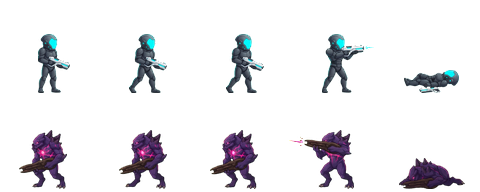
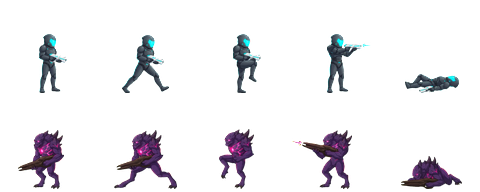
feat(ui): нові кадри кроку бійців — аркуші Gemini з фазами ходи, перевірка walkIoU у конвертері (Т.134)
Claude-Session: https://claude.ai/code/session_01U6iHxee7R2SY71oqbxztUc

diff --git a/src/render.frames.test.ts b/src/render.frames.test.ts
@@ -349,25 +349,25 @@ describe('фідбек власника 2026-10-22: якір дула — тра
   };
 
   it('демон (натив, вліво): старт — дуло фазового різака, лівий край кадру', () => {
-    expect(tracerStart('alien', 5, 3, false)).toEqual([264 - 31, 264 - 16]); // (4,44) → +3, +31
+    expect(tracerStart('alien', 5, 3, false)).toEqual([264 - 29, 264 - 14]); // (7,46) → +5, +33
   });
 
   it('демон (дзеркало, вправо): дуло віддзеркалене до правого краю (x → 96 − x)', () => {
-    expect(tracerStart('alien', 5, 7, true)).toEqual([264 + 31, 264 - 16]); // 92 → +65
+    expect(tracerStart('alien', 5, 7, true)).toEqual([264 + 29, 264 - 14]); // 89 → +63
   });
 
   it('солдат: дуло — правий край кадру fire, на рівні зброї', () => {
-    expect(tracerStart('player', 5, 7, false)).toEqual([264 + 24, 264 - 14]); // (82,47) → +58, +33
+    expect(tracerStart('player', 5, 7, false)).toEqual([264 + 21, 264 - 15]); // (78,45) → +55, +32
   });
 
   it('солдат (дзеркало, вліво): дзеркальне дуло ліворуч', () => {
-    expect(tracerStart('player', 5, 3, true)).toEqual([264 - 24, 264 - 14]); // 14 → +10
+    expect(tracerStart('player', 5, 3, true)).toEqual([264 - 21, 264 - 15]); // 18 → +13
   });
 
   it('muzzlePoint: віддача зсуває дуло назад від погляду', () => {
-    expect(muzzlePoint('player', false, 264, 264, 3)).toEqual({ x: 264 + 24 - 3, y: 264 - 14 });
-    expect(muzzlePoint('alien', false, 264, 264, 3)).toEqual({ x: 264 - 31 + 3, y: 264 - 16 });
-    expect(muzzlePoint('player', true, 264, 264, 3)).toEqual({ x: 264 - 24 + 3, y: 264 - 14 });
+    expect(muzzlePoint('player', false, 264, 264, 3)).toEqual({ x: 264 + 21 - 3, y: 264 - 15 });
+    expect(muzzlePoint('alien', false, 264, 264, 3)).toEqual({ x: 264 - 29 + 3, y: 264 - 14 });
+    expect(muzzlePoint('player', true, 264, 264, 3)).toEqual({ x: 264 - 21 + 3, y: 264 - 15 });
   });
 });
 
@@ -381,7 +381,7 @@ describe('Т.132: спалах дула, віддача, іскри', () => {
     const arcs = early.calls.filter((c) => c.m === 'arc');
     expect(arcs).toHaveLength(2); // ореол і ядро
     // на початку — віддача 3 px: центр спалаху = дуло з віддачею
-    expect((arcs[0]!.args as number[]).slice(0, 2)).toEqual([264 + 24 - 3, 264 - 14]);
+    expect((arcs[0]!.args as number[]).slice(0, 2)).toEqual([264 + 21 - 3, 264 - 15]);
     const late = animCtx();
     drawAnimFrame(late.ctx, a, TRACER_MS * 0.8, 48, 8, 960, 960, { side: 'player', flip: false });
     expect(late.calls.some((c) => c.m === 'arc')).toBe(false);

diff --git a/src/render.ts b/src/render.ts
@@ -183,8 +183,8 @@ export const ATLAS_WALK2_COL = 2;
 // дзеркалення — x → 96 − x. Підказку
 // передає ЛИШЕ бойовище (battle.ts); трасер перехоплення на геосцені — від центру.
 export const MUZZLE_ANCHOR: Readonly<Record<'player' | 'alien', { x: number; y: number }>> = {
-  player: { x: 82, y: 47 }, // дуловий спалах АР-14 «Гарт» — правий край кадру fire (Т.133: новий атлас)
-  alien: { x: 4, y: 44 }, // дуловий спалах фазового різака — лівий край кадру fire (Т.133: новий атлас)
+  player: { x: 78, y: 45 }, // дуловий спалах АР-14 «Гарт» — правий край кадру fire (Т.134: нові аркуші)
+  alien: { x: 7, y: 46 }, // дуловий спалах фазового різака — лівий край кадру fire (Т.134: нові аркуші)
 };
 
 // Точка дула на полі для центру клітинки стрільця (cx, cy); recoil — віддача, px (назад).

diff --git a/scripts/assets/convert_units_t133.py b/scripts/assets/convert_units_t133.py
@@ -6,6 +6,7 @@
 # Відмінності від convert_units.py (П14.3): фігури не піксель-арт, тому альфа плавна
 # (матування за «зеленістю» g - max(r, b)), зменшення — LANCZOS по премножених каналах,
 # зелений відблиск на краях прибирається (g <= max(r, b)) до і після зменшення.
+# Т.134: звіт несе walkIoU (idle-walk1, walk1-walk2, idle-walk2); збіг > WALK_IOU_MAX — помилка.
 # Геометрія атласа не змінюється (ADR-0121): фігура стоячих кадрів — рядки 34..92,
 # ноги — рядок 92 (ATLAS_FEET_ROW = 93 — перший рядок під ногами), якір x спільний для ряду.
 from pathlib import Path
@@ -26,6 +27,7 @@ TOP, BOTTOM = 34, 93  # фігура стоячого кадру: рядки TOP
 BODY_H = BOTTOM - TOP
 MAX_W = 94  # найширший кадр — з полем 1 px з боків
 K0, K1 = 20.0, 90.0  # «зеленість»: <= K0 — фігура, >= K1 — тло
+WALK_IOU_MAX = 0.75  # Т.134: кадри кроку мають різнитись (на атласі Т.133 walk1/walk2 — 0,89)
 
 
 def matte(path):
@@ -78,6 +80,13 @@ def feet_x(fig):
     return float((band.sum(axis=0) * xs).sum() / band.sum())
 
 
+def walk_iou(frames):
+    # збіг масок (перетин / об'єднання) пар idle-walk1, walk1-walk2, idle-walk2; поріг — WALK_IOU_MAX
+    m = [fr[..., 3] > 128 for fr in frames[:3]]
+    pairs = ((0, 1), (1, 2), (0, 2))
+    return [round(float((m[i] & m[j]).sum() / (m[i] | m[j]).sum()), 3) for i, j in pairs]
+
+
 def build_row(path, facing, mirror):
     img = matte(path)
     figs = split_figures(img)
@@ -118,7 +127,17 @@ def build_row(path, facing, mirror):
     cols = slice(edge - 3, edge + 1) if facing > 0 else slice(edge, edge + 4)
     ys = np.where(fire[:, cols].any(axis=1))[0]
     muzzle = {'x': int(edge - 2 * facing), 'y': int(round(ys.mean()))}
-    return frames, {'scale': round(scale, 4), 'deathScale': round(dscale, 4), 'anchorX': anchor, 'bbox': info, 'muzzle': muzzle}
+    iou = walk_iou(frames)
+    if max(iou) > WALK_IOU_MAX:
+        raise SystemExit(f'{path.name}: кадри кроку надто схожі (збіг масок {iou} > {WALK_IOU_MAX}) — перегенерувати аркуш')
+    return frames, {
+        'scale': round(scale, 4),
+        'deathScale': round(dscale, 4),
+        'anchorX': anchor,
+        'bbox': info,
+        'muzzle': muzzle,
+        'walkIoU': iou,
+    }
 
 
 def main():

diff --git a/docs/design/style-references.md b/docs/design/style-references.md
@@ -133,10 +133,12 @@ Tileset for a top-down tactical world map, flat pixel art: a dark ocean tile (#0
 
 **Правила промпту (спільні):** одна фігура чи один ряд — без сітки з кількох рядів; `flat solid pure chroma green #00FF00`, окремо «no floor, no ground line, no shadows, no text»; «No green on the character»; явний напрямок погляду і «identical scale, feet on the same baseline»; перелік кадрів зліва направо; «holds the SAME weapon in ALL frames» (у першій пробі Gemini загубив зброю в кадрі кроку); розмір на полі («optimized for small 60px in-game display») — щоб форми були великі. Напрямок погляду генератор може проігнорувати (демона намалював праворуч) — дзеркалить конвертер.
 
+**Кадри кроку (Т.134).** Промпт Т.133 («left leg forward» / «right leg forward») дав два майже однакові кроки (збіг масок 0,89; у демона другий крок — як «стій», 0,86): у профіль генератор малює ту саму ногу попереду. Робить різними — дві різні фази ходи: «contact» (широкий крок, ноги перевернутою V) і «passing» (опора на одну ногу, коліно другої вгору), плюс «feet together» у «стій» і окреме речення про різні силуети ніг. Промпти нижче — уже з цими фазами; з ними обидва аркуші вийшли з першої спроби (збіг 0,43–0,56). Конвертер перевіряє це сам: звіт `walkIoU`, збіг > 0,75 — помилка. Пастка Т.134: після «Створити зображення» над полем вводу з'являються плитки стилів, і клік по місцю колишнього поля вводу чіпляє стиль (так прикріпився «М'який портрет»; на цей раз результат не зіпсував) — після вибору інструмента спершу знімок, потім клік у поле внизу.
+
 **Промпт аркуша оперативника (Gemini):**
-2D game character sprite sheet, aspect ratio 16:9: exactly 5 separate full-body poses of the exact same character in a single horizontal row, evenly spaced, wide empty gaps between figures. Character: a futuristic sci-fi operative in an armored suit, slightly stocky heroic proportions (3.5 heads tall), bold readable silhouette, large simple shapes optimized for small 60px in-game display. Matte dark gunmetal armor, a rounded hood-like helmet with a glowing neon cyan (#00E5FF) visor, small cyan indicator lights, and a sleek white sci-fi energy blaster with cyan accents. Art style: modern high-resolution 2D digital painting with crisp cel-shaded shapes, clean smooth edges, soft even lighting from the top-left, subtle cyan rim light; strictly NOT pixel art. Side view with a slight three-quarter turn, facing RIGHT in all 5 frames, identical scale, feet on the same baseline. Frames left to right: 1) idle stance, blaster held low across the body; 2) walking, left leg forward, blaster held low across the body; 3) walking, right leg forward, blaster held low across the body; 4) action pose, blaster raised to the shoulder, horizontal, pointing right, short cyan energy flash at the tip; 5) knocked-out pose: lying flat on the back on the ground, head to the right, blaster lying beside him. The character holds the SAME white blaster in ALL frames, including both walking frames. Background: flat solid pure chroma green #00FF00, perfectly uniform edge to edge. No floor, no ground line, no shadows under the feet or under the lying body, no gradients, no borders, no dividing lines, no text, no numbers. No green on the character.
+2D game character sprite sheet, aspect ratio 16:9: exactly 5 separate full-body poses of the exact same character in a single horizontal row, evenly spaced, wide empty gaps between figures. Character: a futuristic sci-fi operative in an armored suit, slightly stocky heroic proportions (3.5 heads tall), bold readable silhouette, large simple shapes optimized for small 60px in-game display. Matte dark gunmetal armor, a rounded hood-like helmet with a glowing neon cyan (#00E5FF) visor, small cyan indicator lights, and a sleek white sci-fi energy blaster with cyan accents. Art style: modern high-resolution 2D digital painting with crisp cel-shaded shapes, clean smooth edges, soft even lighting from the top-left, subtle cyan rim light; strictly NOT pixel art. Side view with a slight three-quarter turn, facing RIGHT in all 5 frames, identical scale, feet on the same baseline. Frames left to right: 1) idle stance, feet together, blaster held low across the body; 2) walking CONTACT pose: a long wide stride, front leg stepping far forward with the heel on the ground, back leg stretched far behind on its toes, the legs form a wide upside-down V, blaster held low across the body; 3) walking PASSING pose: standing on one straight leg directly under the body, the other knee lifted high in front up to hip height with the foot off the ground, legs NOT apart, blaster held low across the body; 4) action pose, blaster raised to the shoulder, horizontal, pointing right, short cyan energy flash at the tip; 5) knocked-out pose: lying flat on the back on the ground, head to the right, blaster lying beside him. Frames 1, 2 and 3 must have clearly different leg silhouettes. The character holds the SAME white blaster in ALL frames, including both walking frames. Background: flat solid pure chroma green #00FF00, perfectly uniform edge to edge. No floor, no ground line, no shadows under the feet or under the lying body, no gradients, no borders, no dividing lines, no text, no numbers. No green on the character.
 
 **Промпт аркуша демона (Gemini):**
-2D game character sprite sheet, aspect ratio 16:9: exactly 5 separate full-body poses of the exact same creature in a single horizontal row, evenly spaced, wide empty gaps between figures. Creature: an alien rift monster for a sci-fi tactical game, hunched and bulky, about as tall as a human, dark purple (#5A2A8A) rocky hide with jagged spikes on the back and shoulders, glowing hot magenta-pink (#FF2E88) energy cracks across the chest and a glowing pink core, two glowing pink eyes, clawed feet; it carries a long heavy dark-brown organic energy cannon in both hands. Bold readable silhouette, large simple shapes optimized for small 60px in-game display. Art style: modern high-resolution 2D digital painting with crisp cel-shaded shapes, clean smooth edges, soft even lighting from the top-left, subtle magenta rim light; strictly NOT pixel art. Side view with a slight three-quarter turn, facing LEFT in all 5 frames, identical scale, feet on the same baseline. Frames left to right: 1) idle stance, cannon held low pointing left; 2) walking, left leg forward, cannon held low; 3) walking, right leg forward, cannon held low; 4) action pose, cannon raised horizontal, pointing left, short magenta energy flash at the tip; 5) knocked-out pose: collapsed flat on the ground on its belly, head to the left, cannon lying beside it, glow dimmed. The creature has the SAME cannon in ALL frames. Background: flat solid pure chroma green #00FF00, perfectly uniform edge to edge. No floor, no ground line, no shadows under the feet or under the lying body, no gradients, no borders, no dividing lines, no text, no numbers. No green on the creature.
+2D game character sprite sheet, aspect ratio 16:9: exactly 5 separate full-body poses of the exact same creature in a single horizontal row, evenly spaced, wide empty gaps between figures. Creature: an alien rift monster for a sci-fi tactical game, hunched and bulky, about as tall as a human, dark purple (#5A2A8A) rocky hide with jagged spikes on the back and shoulders, glowing hot magenta-pink (#FF2E88) energy cracks across the chest and a glowing pink core, two glowing pink eyes, clawed feet; it carries a long heavy dark-brown organic energy cannon in both hands. Bold readable silhouette, large simple shapes optimized for small 60px in-game display. Art style: modern high-resolution 2D digital painting with crisp cel-shaded shapes, clean smooth edges, soft even lighting from the top-left, subtle magenta rim light; strictly NOT pixel art. Side view with a slight three-quarter turn, facing LEFT in all 5 frames, identical scale, feet on the same baseline. Frames left to right: 1) idle stance, feet together, cannon held low pointing left; 2) walking CONTACT pose: a long wide stride, front leg stepping far forward to the left with the heel on the ground, back leg stretched far behind on its claws, the legs form a wide upside-down V, cannon held low; 3) walking PASSING pose: standing on one straight leg directly under the body, the other knee lifted high in front up to hip height with the clawed foot off the ground, legs NOT apart, cannon held low; 4) action pose, cannon raised horizontal, pointing left, short magenta energy flash at the tip; 5) knocked-out pose: collapsed flat on the ground on its belly, head to the left, cannon lying beside it, glow dimmed. Frames 1, 2 and 3 must have clearly different leg silhouettes. The creature has the SAME cannon in ALL frames. Background: flat solid pure chroma green #00FF00, perfectly uniform edge to edge. No floor, no ground line, no shadows under the feet or under the lying body, no gradients, no borders, no dividing lines, no text, no numbers. No green on the creature.
 
-**Від зображення до атласа:** «Завантажити» в Gemini (файл `Gemini_Generated_Image_*.jpeg` у теці завантажень) → `assets-src/t133-soldier-sheet.jpg`, `t133-demon-sheet.jpg` → `python3 scripts/assets/convert_units_t133.py [тека сирців]` → `assets/units-atlas.png` і звіт `scripts/assets/units-t133-report.json` (рамки кадрів, масштаб, якір дула для `MUZZLE_ANCHOR`).
+**Від зображення до атласа:** «Завантажити» в Gemini (файл `Gemini_Generated_Image_*.jpeg` у теці завантажень; з Т.134 власник може й сам прикріпити файл у Gemini, якщо потрібен еталон — попросити) → `assets-src/t133-soldier-sheet.jpg`, `t133-demon-sheet.jpg` → `python3 scripts/assets/convert_units_t133.py [тека сирців]` → `assets/units-atlas.png` і звіт `scripts/assets/units-t133-report.json` (рамки кадрів, масштаб, якір дула для `MUZZLE_ANCHOR`).

diff --git a/docs/agents/ui.md b/docs/agents/ui.md
@@ -28,7 +28,7 @@
 - **Картка поверх поля (меню на ворогові) — міряти на малих полях і гейтити кількома вікнами** (Т.131, факти — у записі Т.131): на 1440 × 900 перша версія картки (208 × 270 px) вміщалась праворуч, а на 1100 × 540 (поле 330 px) і 390 × 844 (342 px) притискалась до краю і накривала самого демона — тап по ньому перехоплювала картка; знайшов прогін вимірів із `setViewportSize` у кроці сценарію. Гейт `expectEnemyMenu` міряє 1440 × 900, 1100 × 540 і 390 × 844 одного демона сіду — це не гарантія для всіх клітинок: аудитор перебором 400 клітинок знайшов 16 у центрі поля 330 px, де картка накривала демона (виправлено компактною карткою, перебір — тестом функції місця). Місце картки біля довільної клітинки перевіряти перебором усіх клітинок поля, а не гейтом. Слухач `resize` гейт не ловить: ambient перемальовує бій щокадру.
 - **Тап у e2e одразу після пострілу потрапляє в анімацію** (Т.131): клік Playwright після кліку, що запустив постріл, — ще під час трасера; дія, яку анімація ховає, має «доганяти» після неї (меню на ворогові запам'ятовує демона і з'являється, щойно черга порожня), інакше гейт залежить від швидкості машини.
 - **Варіанти малювання канви — окремою сторінкою-стендом під `npx vite`** (Т.132): тека `proto/` у клоні (не комітити) з `index.html` і модулем, що імпортує `src/render.ts` (атлас, терен, `drawUnitSprite`) і малює варіанти на канві 960 за `window.draw(v)`; знімок вирізки — Playwright. Без збірки й без стану бою в сценарії; кадри анімації — `window.fx(t)` і `ffmpeg` у відео. Числа прототипу потім переносяться в код гілки.
-- **Згенеровані малюнки (Т.133):** генератори Vibe Work і Gemini сесія веде сама в Chrome власника; порядок запитів, пастки і промпти — `docs/design/style-references.md`, розділ «Т.133». Аркуш «зараз / варіанти» — з проб у розмірі поля (вирізки знімків екрана досить для вибору стилю); остаточні файли — кнопкою «Завантажити» в генераторі, далі доступ до теки завантажень власника і копія в сесію. Новий атлас — у чинну геометрію (кадр 96, фігура в рядках 34–92): тоді код не міняється, лише `MUZZLE_ANCHOR` зі звіту конвертера і числа дула в `render.frames.test.ts` та `ui/battle.test.ts`.
+- **Згенеровані малюнки (Т.133):** генератори Vibe Work і Gemini сесія веде сама в Chrome власника; порядок запитів, пастки і промпти — `docs/design/style-references.md`, розділ «Т.133». Аркуш «зараз / варіанти» — з проб у розмірі поля (вирізки знімків екрана досить для вибору стилю); остаточні файли — кнопкою «Завантажити» в генераторі, далі доступ до теки завантажень власника і копія в сесію. Новий атлас — у чинну геометрію (кадр 96, фігура в рядках 34–92): тоді код не міняється, лише `MUZZLE_ANCHOR` зі звіту конвертера і числа дула в `render.frames.test.ts` та `ui/battle.test.ts`. Т.134: кадри кроку — фазами ходи «contact» / «passing» (не «ліва / права нога вперед»), конвертер сам перевіряє збіг масок (`walkIoU` ≤ 0,75); після «Створити зображення» в Gemini не клацати навмання — на місці поля вводу з'являються плитки стилів; файл у Gemini прикріплює власник, якщо попросити. Стан, якого немає на старті бою (демон поза туманом, кадри ходу), — знімки канви `toDataURL` у тимчасовому блоці сценарію.
 - **Градієнтів (`createRadialGradient`) на канві уникати** (Т.132): мок-контексти тестів (`Proxy`) повертають `undefined` і `addColorStop` падає — тінь і спалах малювати напівпрозорими еліпсами й колами.
 - **Поломку нового гейта e2e перевіряти сценарієм гілки проти збірки `main`** (Т.132): прев'ю `main` на 4175 і `E2E_URL=http://localhost:4175/rubezh/` — без правки й перезбирання файлів гілки.
 - **Числа й тексти на ескізі брати зі сторінки або з констант ядра** (`title` плитки, `RIFLE.modes`), не вписувати руками (Т.33).
